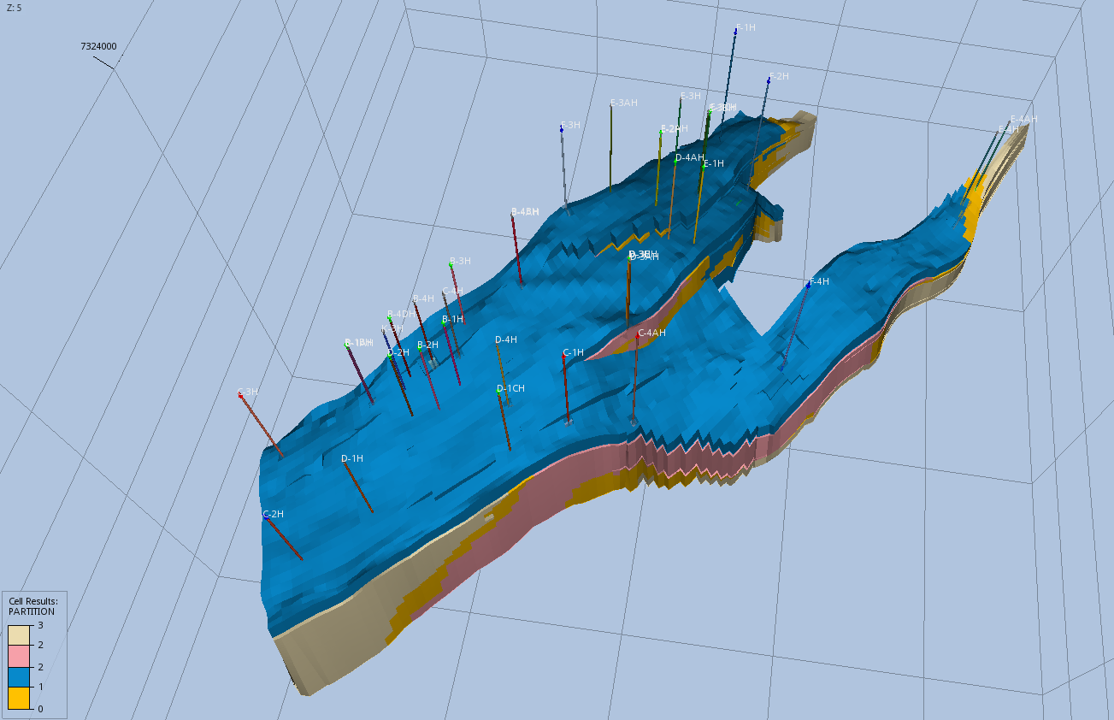
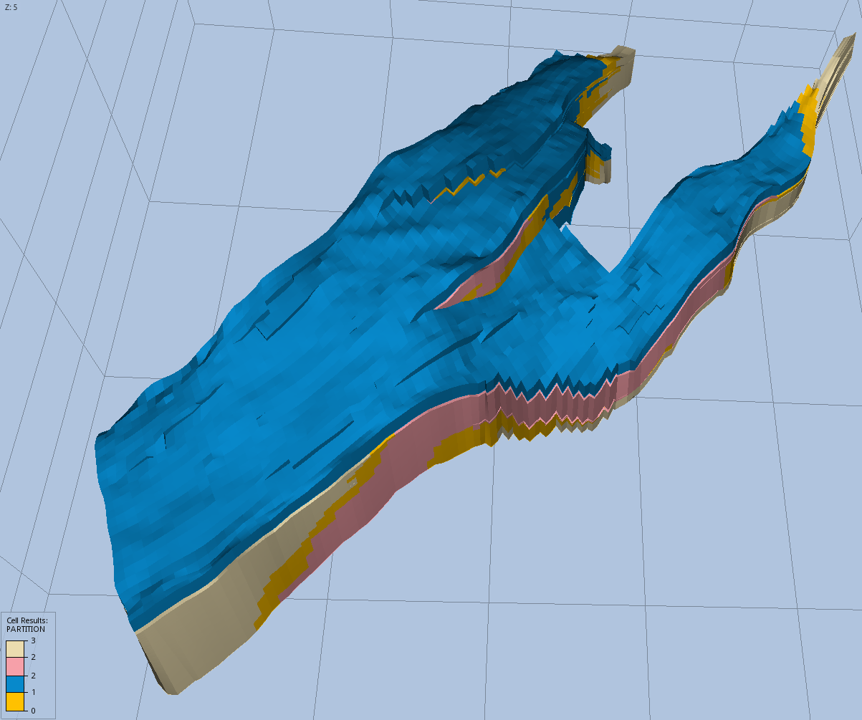
improve readme

diff --git a/examples/reservoir_simulation/xmgn/README.md b/examples/reservoir_simulation/xmgn/README.md
@@ -56,8 +56,7 @@ your_dataset/
 An open-source reservoir simulator, [OPM](https://opm-project.org/), was used
 to generate both datasets.
 
-**Norne field example visualization** - static reservoir property with wells
-and domain partitions:
+**Norne field example visualization** - static reservoir property and domain partitions:
 
 <!-- markdownlint-disable MD033 -->
 <table>
@@ -66,7 +65,7 @@ and domain partitions:
 <td><img src="docs/visualizations/PARTITION.png" alt="X-MGN Partitioning"/></td>
 </tr>
 <tr>
-<td align="center"><i>Permeability distribution</i></td>
+<td align="center"><i>Permeability (PERMX) distribution</i></td>
 <td align="center"><i>X-MeshGraphNet partitioning (0=halo region)</i></td>
 </tr>
 </table>
